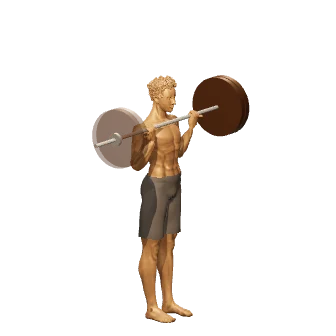
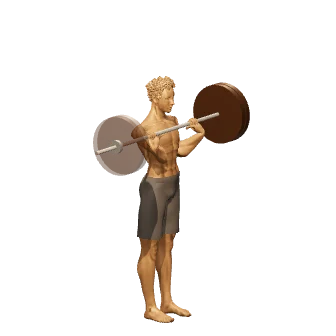
Press militar: la barra arranca sobre las clavículas, por debajo de la barbilla

Changed region(s): [[0.2679, 0.2083, 0.744, 0.625], [0.3869, 0.625, 0.5952, 0.9821], [0.3869, 0.7738, 0.4167, 0.8333]]

diff --git a/js/anim3d/patterns/press.js b/js/anim3d/patterns/press.js
@@ -26,7 +26,7 @@ const mixV = (a, b, t) => a.clone().lerp(b, t).normalize();
  */
 export function overheadPress(o = {}) {
   const stance = o.stance || { foot: 0.1, toeOut: 8 };
-  const gripZ = o.gripZ ?? 0.31;
+  const gripZ = o.gripZ ?? 0.27;
   return s => {
     const A = v2(ANKLE_X, M.ankleH);
     // Dip del push press: ~13° de rodilla, en el primer tercio.
@@ -41,7 +41,7 @@ export function overheadPress(o = {}) {
     const S = shoulderFrom(H, tr);
 
     // Barra: del rack (clavículas) al bloqueo (sobre el mediopié), vertical.
-    const R = torsoPoint(S, tr, o.rackFwd ?? 0.13, o.rackUp ?? 0.05);
+    const R = torsoPoint(S, tr, o.rackFwd ?? 0.15, o.rackUp ?? 0);
     const lockX = o.lockX ?? MID_X - 0.03;
     const dz = Math.abs(M.shoulderZ - gripZ);
     const lockY = S.y + Math.sqrt(Math.max((M.upper + M.fore + M.gripOff - 0.035) ** 2 - (lockX - S.x) ** 2 - dz * dz, 0));
@@ -51,11 +51,13 @@ export function overheadPress(o = {}) {
 
     const legs = both((k, side) => plantedLeg(A, K, side, stance));
     const pose = { H, tr, legs, props: [barbell(bar)], track: V3(bar), overhead: p > 0.3,
+      // En el rack de press la muñeca se extiende mucho más que de pie (~100°): límite propio solo ahí.
+      wristMax: p < 0.25 ? 112 : undefined,
       neck: rad(o.neck ?? 12) * bump(p * 1.1) };
     const U = (a, b) => mixV(new THREE.Vector3(...a), new THREE.Vector3(...b), p);
     pose.arms = both((k, side) => ({
       grip: { point: V3(bar, side * gripZ), axis: ZAX,
-        forearm: U([...(o.fa || [0.5, -0.85]), 0], [0, -1, 0]), back: U([-0.4, -0.9, 0], [-1, -0.1, 0]) },
+        forearm: U([...(o.fa || [0.5, -0.85]), 0], [0, -1, 0]), back: U([...(o.bk || [-0.4, -0.9]), 0], [-1, -0.1, 0]) },
       pole: U([1, -0.5, side * 0.35], [-0.2, 0, side * 1]),
     }));
     return pose;
@@ -95,6 +97,8 @@ export function kbThruster(o = {}) {
     const pole = mixV(new THREE.Vector3(0.3, -1, rk.elbow), new THREE.Vector3(-0.2, 0, 1), p);
     return {
       H, tr, legs, props: [kettlebell(handle, axis, down)], track: handle, overhead: p > 0.3,
+      // En el rack de press la muñeca se extiende mucho más que de pie (~100°): límite propio solo ahí.
+      wristMax: p < 0.25 ? 112 : undefined,
       neck: rad(o.neck ?? 6) * bump(p * 1.1),
       arms: {
         r: { grip: { point: handle, axis, forearm, back }, pole },

diff --git a/js/anim3d/figure.js b/js/anim3d/figure.js
@@ -591,8 +591,8 @@ export async function createFigure(scene, base = 'model/') {
       const [kind, side] = name.split('_').length === 3 ? ['rodilla_inv', name.slice(-1)] : name.split('_');
       if (kind === 'rodilla_inv') { if (v) worst = { excess: 99, where: `rodilla ${side === 'l' ? 'izq.' : 'der.'} doblada al revés` }; continue; }
       if (kind === 'hombro' && overhead) continue;
-      const ex = v - LIMITS[kind];
-      if (ex > worst.excess) worst = { excess: ex, where: `${kind} ${side === 'l' ? 'izq.' : 'der.'} a ${Math.round(v)}° (máx. ${LIMITS[kind]}°)` };
+      const ex = v - (kind === 'muñeca' && pose.wristMax ? pose.wristMax : LIMITS[kind]);
+      if (ex > worst.excess) worst = { excess: ex, where: `${kind} ${side === 'l' ? 'izq.' : 'der.'} a ${Math.round(v)}° (máx. ${kind === 'muñeca' && pose.wristMax ? pose.wristMax : LIMITS[kind]}°)` };
     }
     return worst;
   }
